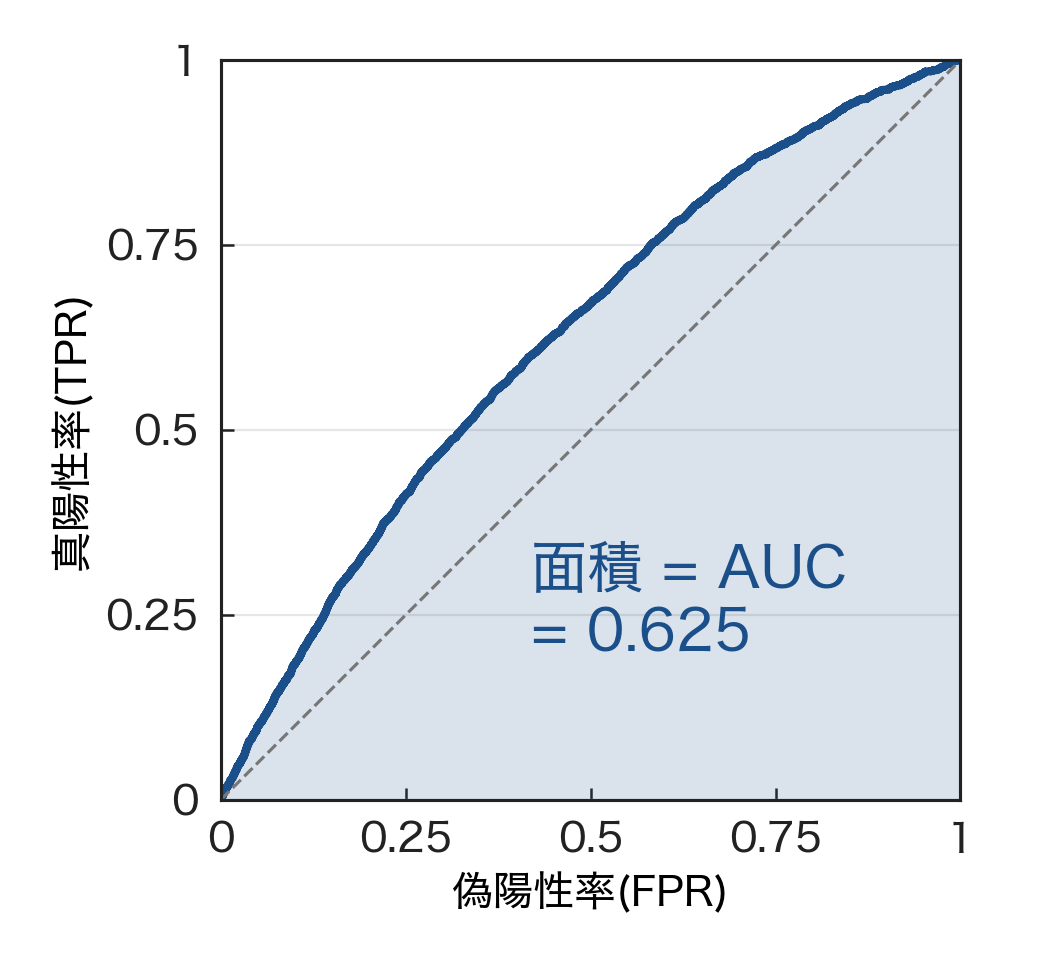
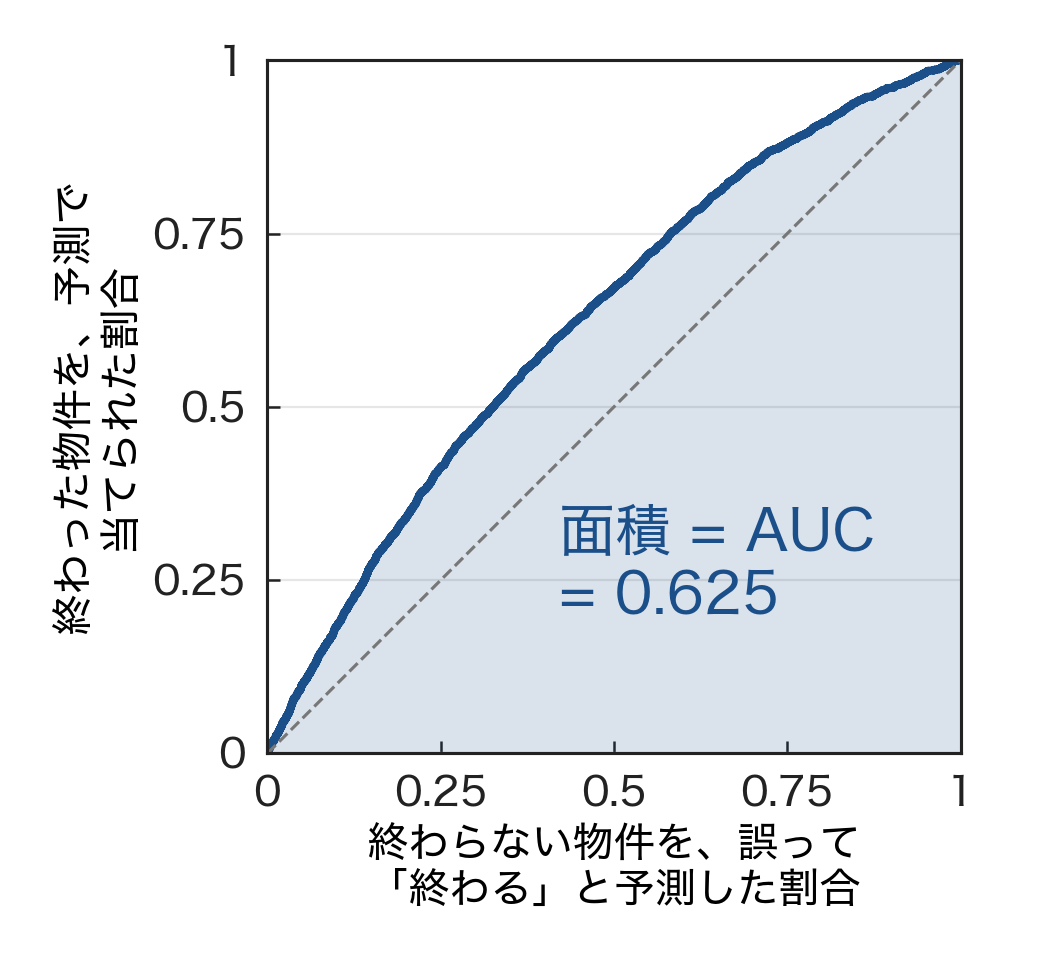
Talk figure 31h: describe ROC axes in plain words

diff --git a/Yamamoto/room_level/analysis/31_slide_figures.py b/Yamamoto/room_level/analysis/31_slide_figures.py
@@ -272,8 +272,8 @@ def fig_roc(c23: pd.DataFrame) -> None:
     ax.set_yticks(ticks)
     ax.set_xticklabels(["0", "0.25", "0.5", "0.75", "1"])
     ax.set_yticklabels(["0", "0.25", "0.5", "0.75", "1"])
-    ax.set_xlabel("偽陽性率(FPR)")
-    ax.set_ylabel("真陽性率(TPR)")
+    ax.set_xlabel("終わらない物件を、誤って\n「終わる」と予測した割合" if TALK else "偽陽性率(FPR)")
+    ax.set_ylabel("終わった物件を、予測で\n当てられた割合" if TALK else "真陽性率(TPR)")
     fig.tight_layout()
     save(fig, "31h_roc.png")
 
